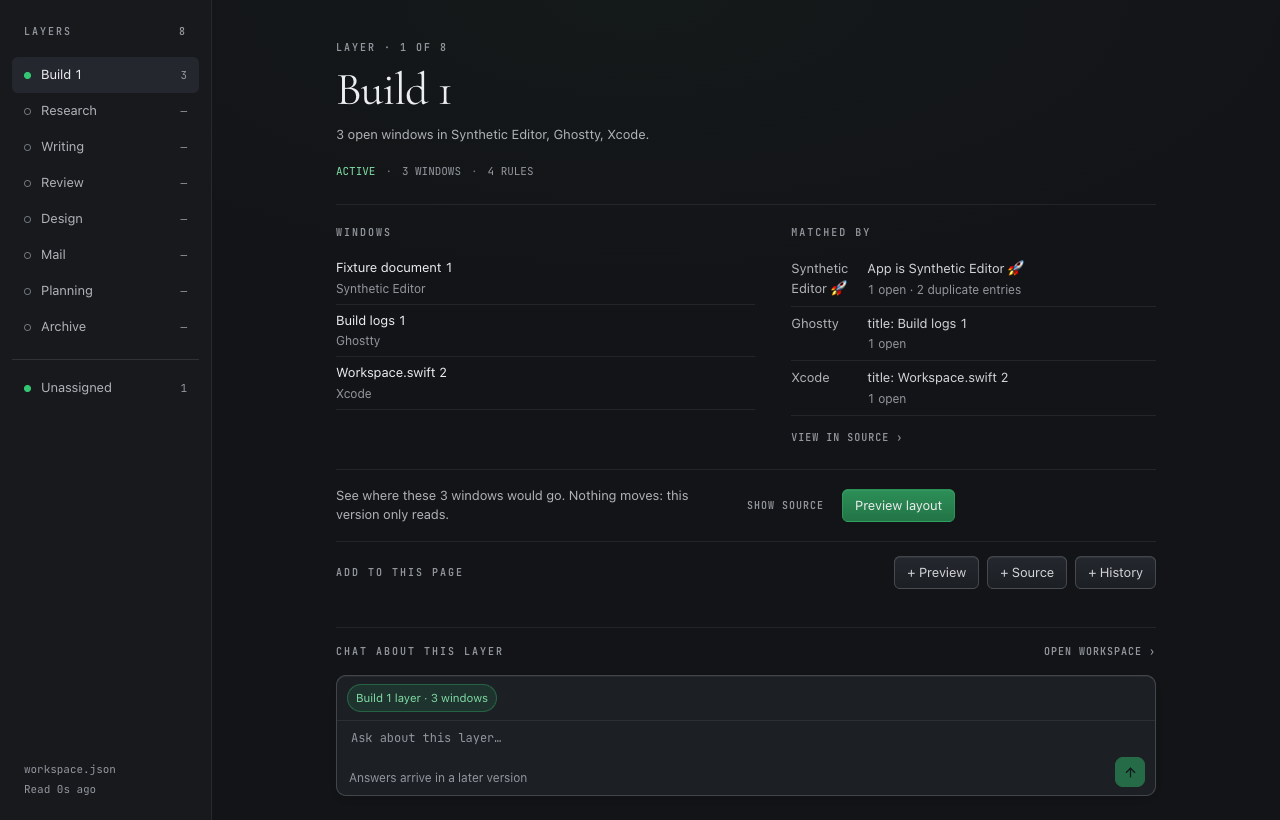
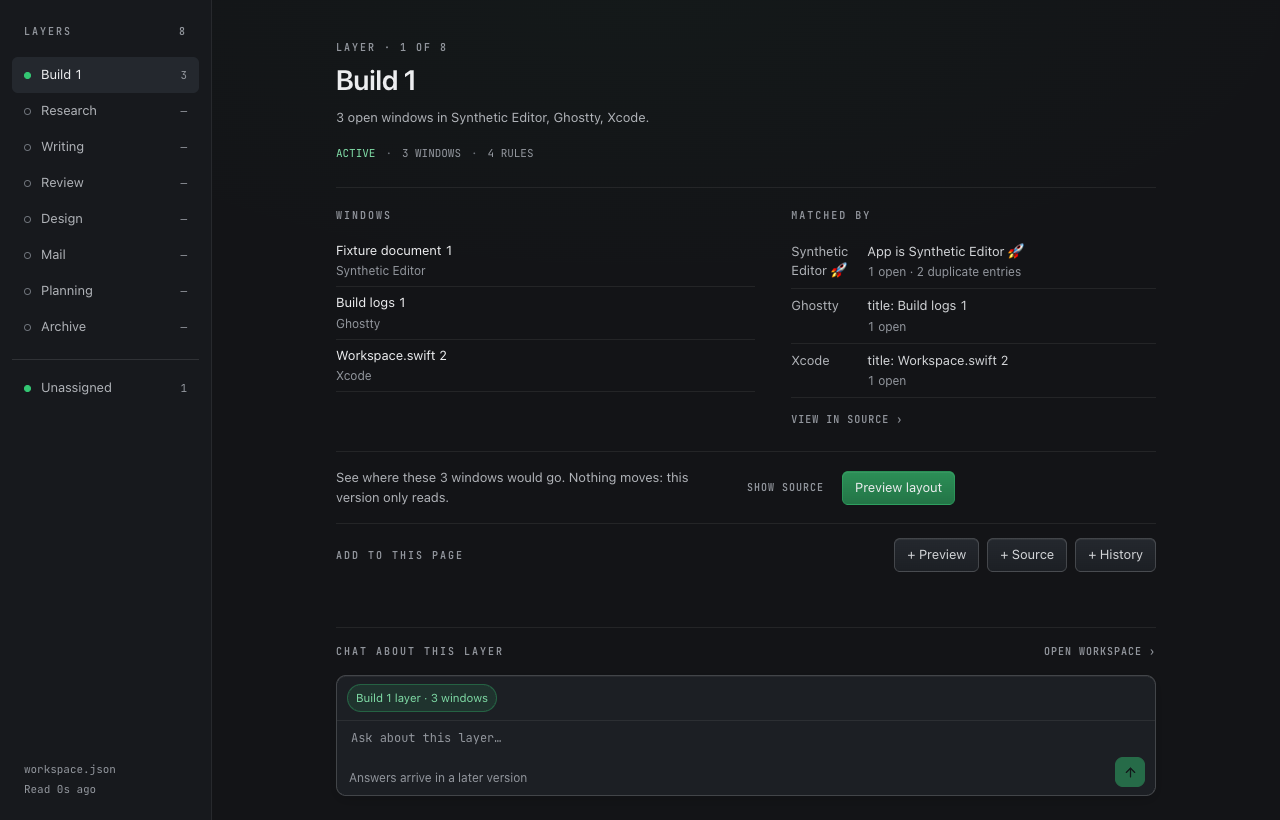
🎨 Use system UI typography for Layers headings

diff --git a/apps/lattices-editor/overview-design-check.ts b/apps/lattices-editor/overview-design-check.ts
@@ -13,6 +13,9 @@ try {
   assert(await page.locator('.editor-root').getAttribute('data-view')==='overview','Overview default');
   assert(await page.locator('.layer-index nav button').count()===8,'Real fixture has eight layers');
   assert(!await page.locator('.workspace-view').isVisible(),'Workspace hidden without unmounting');
+  const headingStyle=()=>page.locator(".layer-reading h1").evaluate(el=>{const s=getComputedStyle(el);return {family:s.fontFamily,size:s.fontSize,weight:s.fontWeight,line:s.lineHeight,tracking:s.letterSpacing};});
+  const heading=await headingStyle();
+  assert(heading.size==="28px"&&heading.weight==="600"&&heading.family.includes("SF Pro Display")&&Math.abs(parseFloat(heading.line)-30.8)<.1&&Math.abs(parseFloat(heading.tracking)+.42)<.01,"Overview uses specified UI heading typography");
   const editor=await page.locator('.cm-editor').elementHandle();
   assert(await page.locator('.layer-picker').isVisible()===(width===560),'Narrow picker replaces index');
   assert(await page.locator('.matched-by').isVisible()===(width===1280),'Narrow hides match details');
@@ -35,6 +38,9 @@ try {
   await page.evaluate(()=>editorMock.command({command:'view',value:'overview'}));await page.locator('.layer-reading h1').waitFor();
   if(width===560)await page.getByLabel('Choose layer').selectOption('overview:0');else await page.locator('.layer-index').getByRole('button',{name:'Research —',exact:true}).click();
   await page.getByRole('heading',{name:'Research',exact:true}).waitFor();assert(await page.getByText('No windows are open.',{exact:true}).isVisible(),'Empty layer data');
+  if(width===560)await page.getByLabel("Choose layer").selectOption("unassigned");else await page.locator(".unassigned-index button").click();
+  await page.getByRole("heading",{name:"Unassigned",exact:true}).waitFor();
+  assert(JSON.stringify(await headingStyle())===JSON.stringify(heading),"Unassigned uses identical UI typography");
   assert(errors.length===0,errors.join('\n'));console.log(`PASS Overview ${width}: default, real counts, responsive picker, open panel, stable source, persisted view`);await page.close();
  }
 }finally{await browser.close();}

diff --git a/apps/lattices-editor/overview.css b/apps/lattices-editor/overview.css
@@ -1,4 +1,3 @@
-@font-face { font-family: 'Cormorant Garamond'; font-style: normal; font-weight: 400; font-display: swap; src: url('./cormorant-garamond-latin-400-normal.woff2') format('woff2'); }
 @font-face { font-family: 'JetBrains Mono'; font-style: normal; font-weight: 600; font-display: swap; src: url('./jetbrains-mono-latin-600-normal.woff2') format('woff2'); }
 .lv {
   --sidebar:#17191d; --page:#131417; --card:#1c1f24; --raise:#24282e; --floor:#101114;
@@ -39,7 +38,6 @@
 .layer-reading { min-height:100%; max-width:900px; margin:auto; padding:0 40px 24px; display:flex; flex-direction:column; }
 .overview-content { padding-top:40px; }
 .overview-eyebrow { font:600 10px/1.5 var(--hud-font-mono); letter-spacing:2px; text-transform:uppercase; color:var(--faint); }
-.layer-reading h1 { margin:10px 0 12px; font:400 46px/1.05 'Cormorant Garamond',serif; letter-spacing:-.02em; overflow-wrap:anywhere; }
 .layer-description { max-width:64ch; color:var(--muted); }
 .layer-facts { display:flex; flex-wrap:wrap; gap:0; margin-top:18px; font:var(--mono-note)/1.6 var(--hud-font-mono); text-transform:uppercase; color:var(--faint); }
 .layer-facts span+span::before { content:'·'; padding:0 10px; color:var(--subtle); }
@@ -126,3 +124,5 @@
 .overview-content { flex:0 1 auto; min-height:0; overflow:auto; overscroll-behavior:contain; }
 .overview-chat { flex:none; border-top:1px solid var(--line-soft); padding-top:12px; }
 .overview-spacer { flex:1 0 16px; }
+
+.layer-reading h1 { margin:10px 0 12px; font:600 28px/1.1 -apple-system, BlinkMacSystemFont, "SF Pro Display", system-ui, sans-serif; letter-spacing:-.015em; color:var(--ink); overflow-wrap:anywhere; }

diff --git a/apps/lattices-editor/build.ts b/apps/lattices-editor/build.ts
@@ -1,7 +1,8 @@
-import { mkdir, copyFile } from 'node:fs/promises';
+import { mkdir, copyFile, rm } from 'node:fs/promises';
 const root = import.meta.dir;
 const dev = process.argv.includes('--dev');
 const outdir = `${root}/${dev ? 'dist-dev' : 'dist'}`;
+await rm(outdir, { recursive: true, force: true });
 await mkdir(outdir, { recursive: true });
 const result = await Bun.build({ entrypoints: [`${root}/main.tsx`], outdir, naming: 'editor.[ext]', target: 'browser', format: 'iife', minify: true, define: { 'process.env.NODE_ENV': JSON.stringify(dev ? 'development' : 'production') } });
 if (!result.success) { console.error(result.logs); process.exit(1); }
@@ -9,8 +10,6 @@ await copyFile(`${root}/../../node_modules/@fontsource/jetbrains-mono/files/jetb
 await copyFile(`${root}/../../node_modules/@fontsource/jetbrains-mono/LICENSE`, `${outdir}/jetbrains-mono-LICENSE.txt`);
 for (const [pkg, file, target] of [
   ['jetbrains-mono', 'files/jetbrains-mono-latin-600-normal.woff2', 'jetbrains-mono-latin-600-normal.woff2'],
-  ['cormorant-garamond', 'files/cormorant-garamond-latin-400-normal.woff2', 'cormorant-garamond-latin-400-normal.woff2'],
-  ['cormorant-garamond', 'LICENSE', 'cormorant-garamond-LICENSE.txt'],
 ]) await copyFile(`${root}/../../node_modules/@fontsource/${pkg}/${file}`, `${outdir}/${target}`);
 const css = Bun.spawn([process.execPath, 'x', '--no-install', '@tailwindcss/cli', '-i', `${root}/styles.css`, '-o', `${outdir}/editor.css`, '--minify'], { stdout: 'inherit', stderr: 'inherit' });
 if (await css.exited) process.exit(1);

diff --git a/apps/lattices-editor/README.md b/apps/lattices-editor/README.md
@@ -3,7 +3,7 @@
 ## Embed
 
 Dist: `/Users/arach/dev/hudson-worktrees/lattices-editor-slice-1/apps/lattices-editor/dist/`.
-Bundle all eight files, including Cormorant Garamond 400, JetBrains Mono 400/600 and both licenses. No CDN or runtime HTTP requests.
+Bundle all six files, including JetBrains Mono 400/600 and its license. No CDN or runtime HTTP requests.
 Production excludes the synthetic host and developer controls.
 
 The native host opts into page mode with `capabilities.result.payload.chrome: "host"`.
@@ -26,7 +26,7 @@ Workspace stays mounted while Overview is visible, preserving CodeViewer,
 selection, panel state and the v3 layout preference.
 
 Overview follows Talkie's workflow-detail structure: 212px index, 820px reading
-column, serif layer title, windows/rule summary, preview/add-panel actions, and
+column, system UI layer title, windows/rule summary, preview/add-panel actions, and
 bottom-anchored disabled composer. At <=640px the index becomes a native picker,
 and Matched by is hidden. Actual data supplies counts, app lists, unmatched
 rules and optional pin/display facts. Duplicate rule occurrences are counted
@@ -45,7 +45,7 @@ claimed to pixel-match unseen boards. Independent review found no must-fix.
 ## Appearance and behavior
 
 - The .lv v8 palette in overview.css overrides both views: neutral surfaces, green actions and amber warnings.
-- SF Pro Text UI at 13px; JetBrains Mono 400/600 for data and labels. Cormorant Garamond 400 at 46px is reserved for the Overview layer name. 36px panel headers,
+- SF Pro Text UI at 13px; JetBrains Mono 400/600 for data and labels. Overview layer names use SF Pro Display/system UI at 28px, weight 600. 36px panel headers,
   34px window rows, 18px app tiles, count pills, selected checks and header dot.
 - Stable Hudson components: grouped list, list items, badges, composer, CodeViewer,
   peer panel mounts and optional standalone chrome.
@@ -103,9 +103,7 @@ Overview keeps the composer visible at 1280×650, 1280×820 and 560×650; only t
 ## SHA-256
 
 ```text
-732f37009943e7f4378cf37113c9bcc4716af002a8583511aa91ed5d37683e73  cormorant-garamond-LICENSE.txt
-8048ac209bec741e1c29cd0cfac5aac1c0c2ba8c3ddbd4a58fa9bd92ef5c63c2  cormorant-garamond-latin-400-normal.woff2
-1d35f5aa3b6f3cae5415a18a8e219b01bfbe117a4d26591f943a8bd09426c449  editor.css
+4055bfa32f008a52c684d2c05810adf1000ce98462d594fbf04fc28fc58919b7  editor.css
 55572e7e240ed22f96b6a052f79138bd0d9ac81987da82d597de939f1ce0f00e  editor.js
 6ceb52eedcfc21964230e4e1793d4e9703b7d76393b8a3808229b6c30c19c208  index.html
 403581b69dac5cff4079205e01c6b467e56af449ecbd7247693ddb1baafa005b  jetbrains-mono-LICENSE.txt

diff --git a/apps/lattices-editor/DESIGN.md b/apps/lattices-editor/DESIGN.md
@@ -13,7 +13,7 @@ real bridge data and remain read-only.
 
 The v8 visual authority is the operator's specification and the inspected
 Talkie `workflow-detail.ts` detail-content, glance and composer patterns:
-restrained index, top-spaced serif title, two-column facts, an 820px reading
+restrained index, top-spaced UI title, two-column facts, an 820px reading
 measure and a bottom-anchored composer. This is not a return to the prior
 rounded-UI preset. `overview.css` defines the `.lv` palette and overrides the
 underlying `theme.css` kit mappings for both views; `editor.css` retains
@@ -59,8 +59,8 @@ with an outline only on keyboard focus (:focus-visible). Do not invent per-layer
 
 The UI uses the system/SF Pro Text stack at 13px, weight 400 and line height 1.5,
 not SF Pro Rounded. Notes use 12px. Data uses JetBrains Mono at 12px or 11px;
-small tracked labels use weight 600. The layer title uses Cormorant Garamond,
-weight 400, 46px, line height 1.05 and -.02em tracking. Sidebar headings,
+small tracked labels use weight 600. The layer title uses the system/SF Pro Display stack,
+weight 600, 28px, line height 1.1 and -.015em tracking in ink. Sidebar headings,
 eyebrows and section labels use 10px weight-600 mono with 2px tracking.
 
 Workspace titles and body text follow the same `.lv` UI stack: row titles,
@@ -68,9 +68,9 @@ context and history are 13px; secondary app names are 12px UI, not monospace.
 Panel titles remain 13px semibold. Source code uses 12px JetBrains Mono with
 line height 1.6. Use tabular numerals and disable ligatures for code/data.
 
-Cormorant Garamond 400 and JetBrains Mono 400/600 are local WOFF2 assets; no
-remote font request is required. `build.ts` emits eight distribution files:
-HTML, CSS, JavaScript, three font files and two font licenses. The system UI
+JetBrains Mono 400/600 are local WOFF2 assets; no
+remote font request is required. `build.ts` emits six distribution files:
+HTML, CSS, JavaScript, two font files and one font license. The system UI
 font is not bundled.
 
 ## Layout
